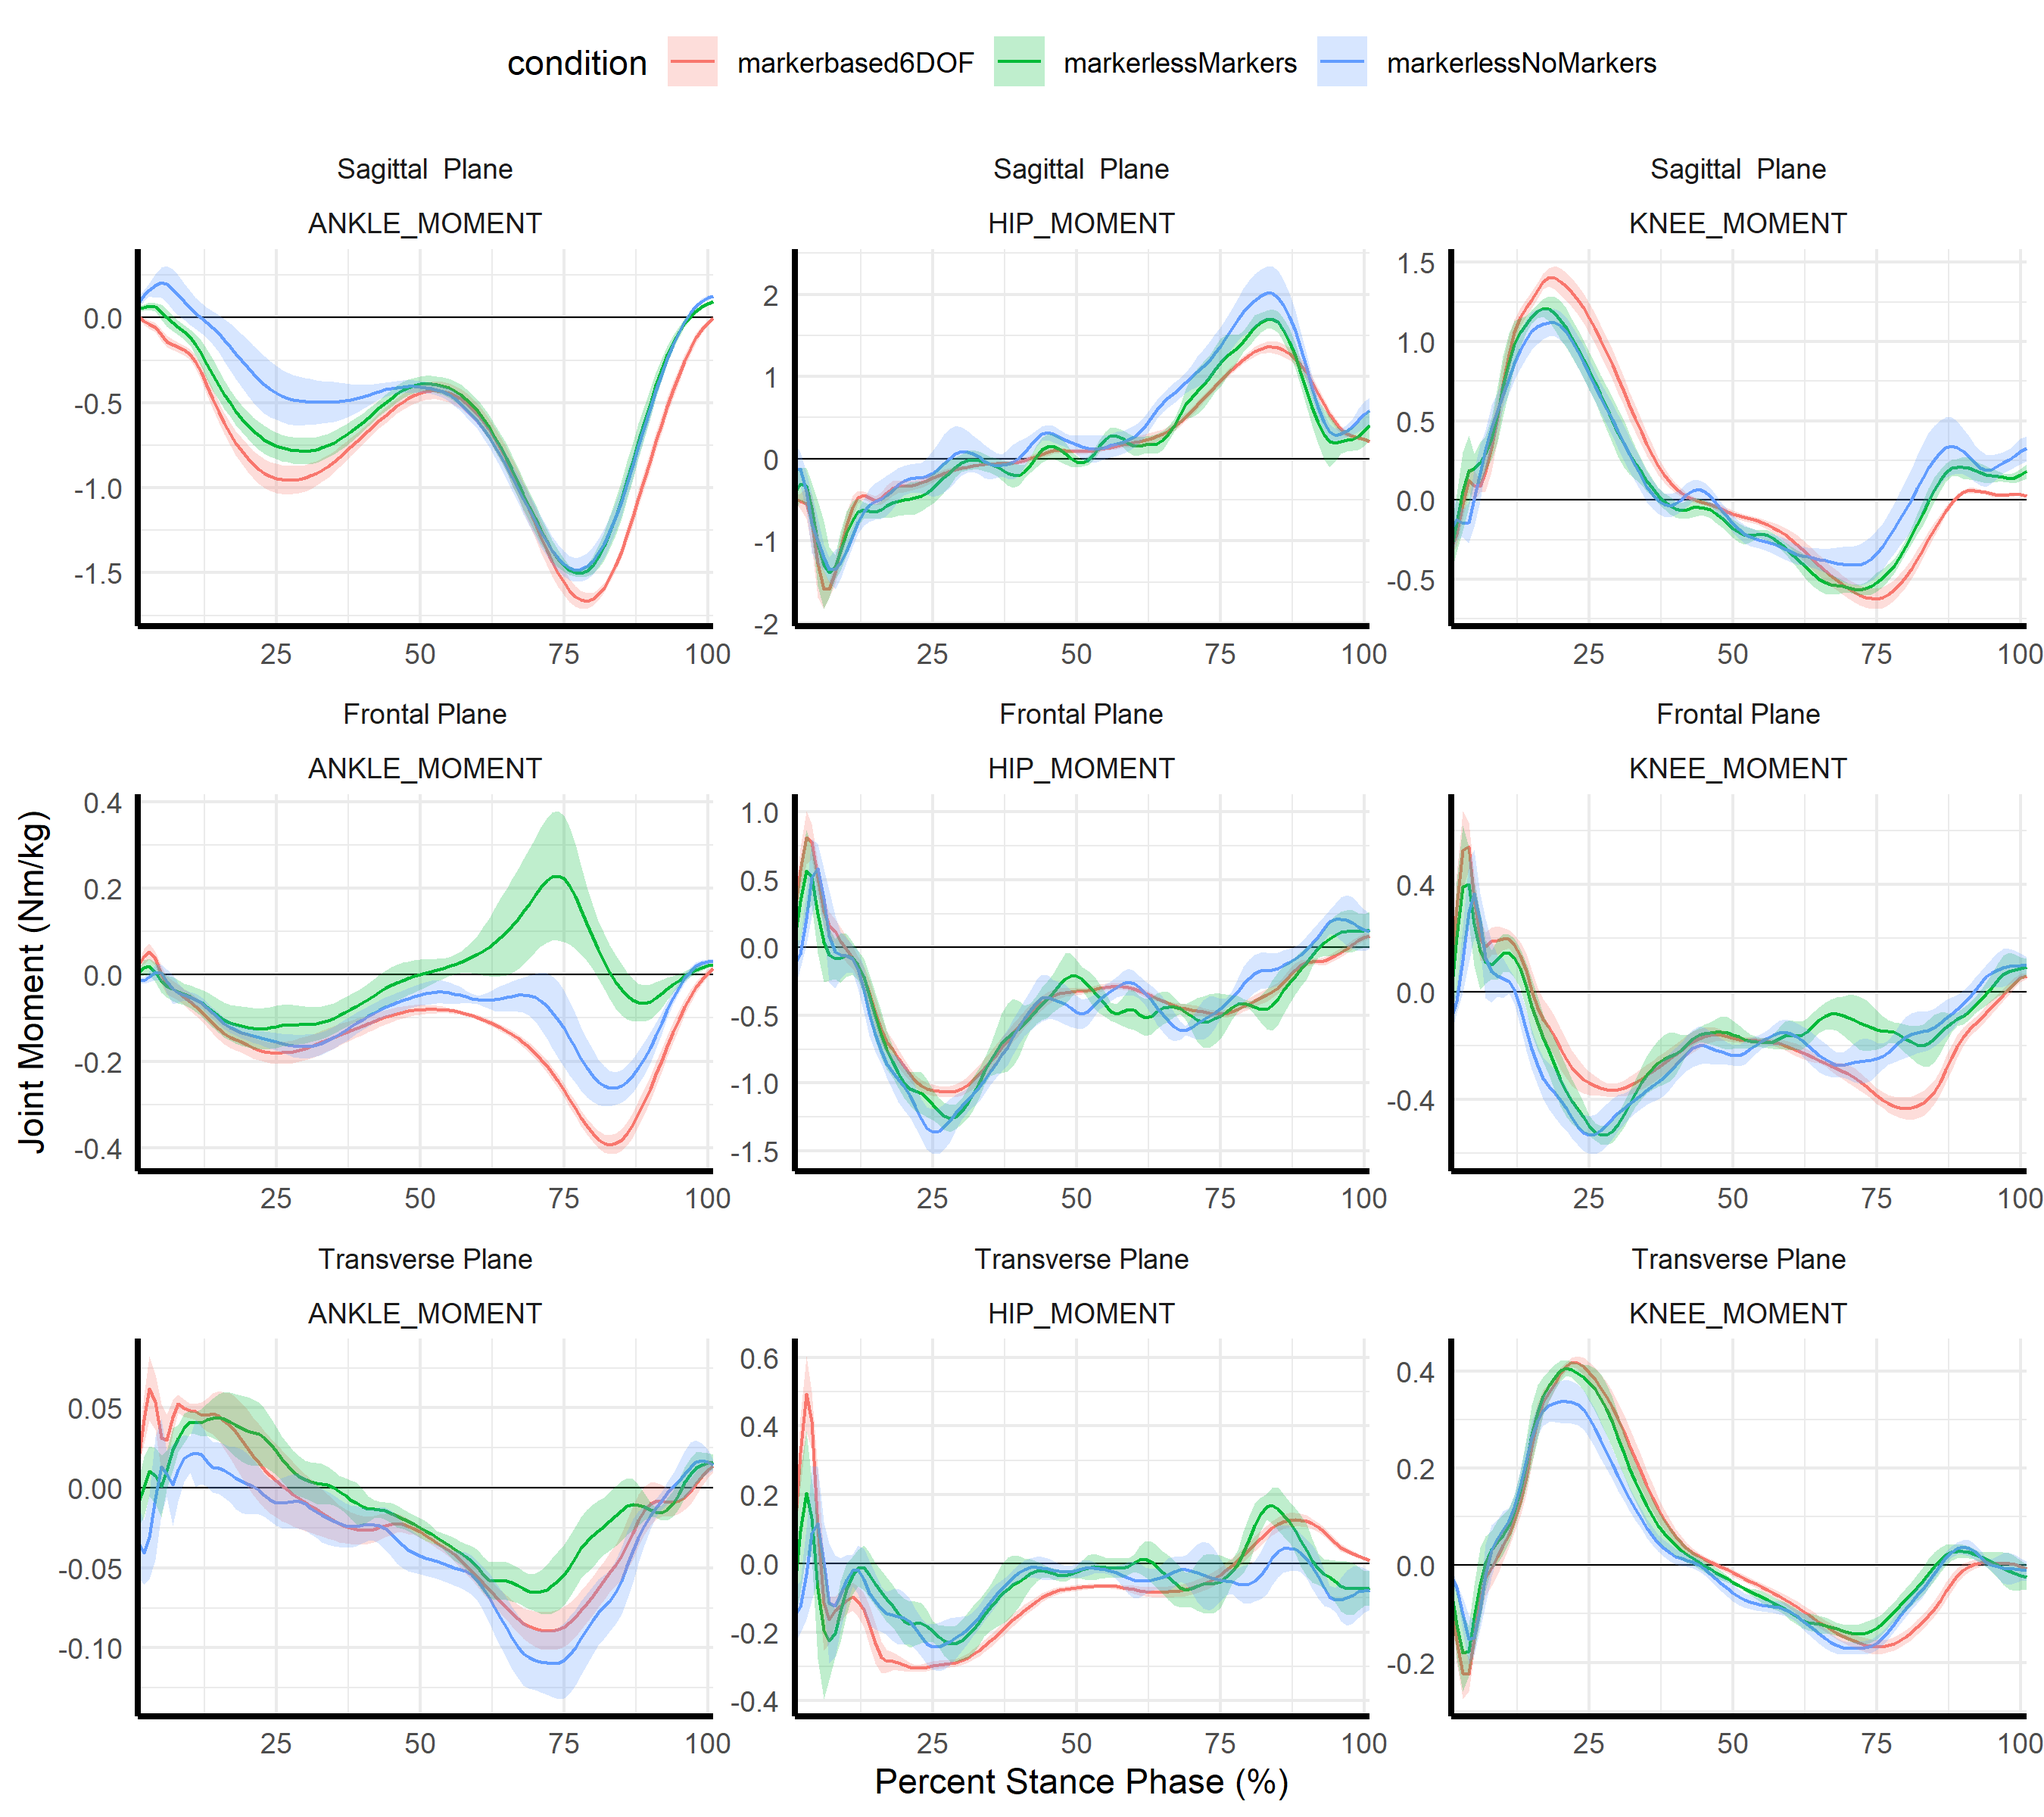
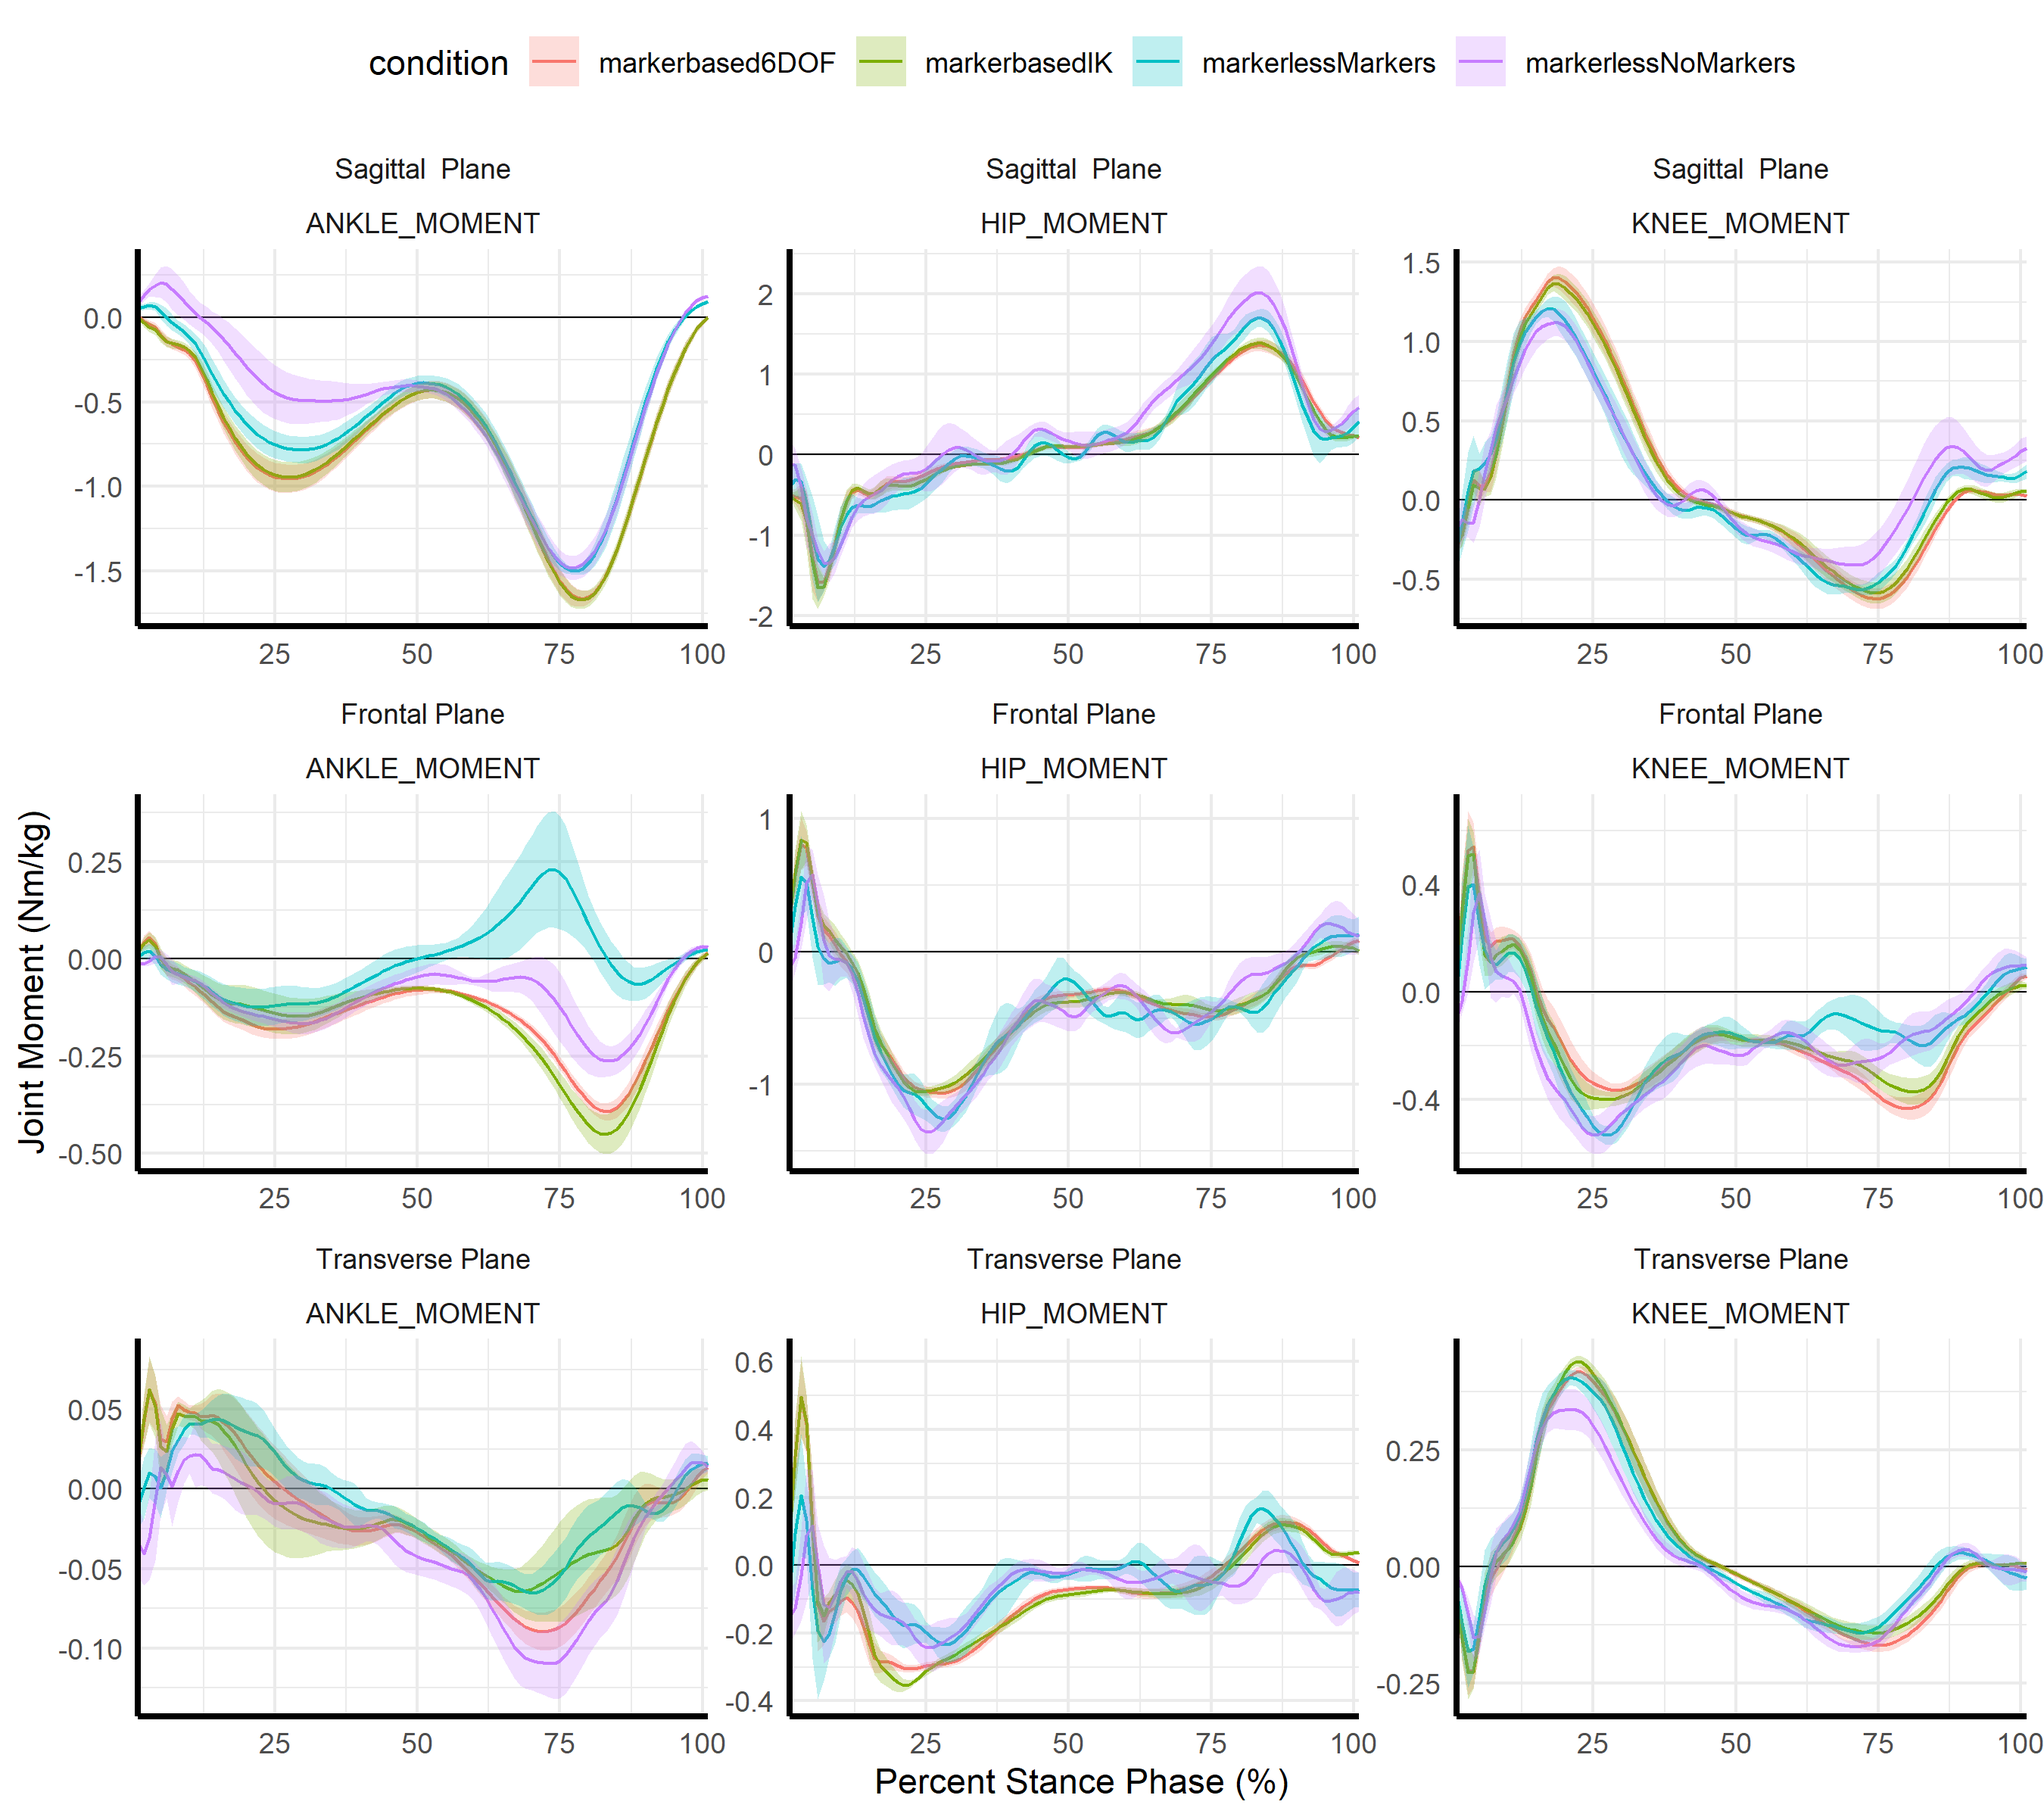
Added kinetics for IK

diff --git a/README.md b/README.md
@@ -54,6 +54,7 @@ library(devtools)
 library(v3dR)
 library(tidyverse)
 library(stringr)
+library(here)
 ```
 
 ### Build loopV3DR
@@ -84,7 +85,7 @@ loopV3DR <- function(full_filepath){
 
 ``` r
 # Define path to the subject folders
-resultsPath <- "C:\\Users\\Blast\\OneDrive - Queen's University\\MarkerlessCP\\subjects"
+resultsPath <- here('subjects')
 
 # Create list of subjects based on subject folders
 subList <- list.dirs(resultsPath, recursive=FALSE)
@@ -115,6 +116,29 @@ only include the **markerbased6DOF** and **markerlessMarkers** for the
 main plot comparisons since these data were collected concurrently.
 
 ### Right Side
+
+``` r
+df %>%
+  subset(select = -c(c3d_name, instance)) %>%
+  filter(!grepl("MOMENT", signal_names)) %>%
+  filter(side == 'right') %>%
+  filter(condition != 'markerlessAfo') %>%
+  filter(condition != 'markerbasedIK') %>%
+  filter(condition != 'markerlessNoMarkers')%>%
+  ggplot(aes(x = item, y = value, group = condition, color = condition)) +
+  geom_hline(yintercept = 0, color = "black", size = 0.25) +
+  stat_summary(fun = mean, geom = "line") +
+  stat_summary(fun.data = "mean_sdl", fun.args = list(mult = 1),
+               mapping = aes(color = condition, fill = condition),
+               geom = "ribbon", alpha = 0.25, colour = NA) +
+  facet_wrap(signal_components ~ signal_names, scales = "free",
+             labeller = labeller(signal_components = as_labeller(component_names))) +
+ theme_minimal() +
+ theme(axis.line = element_line(size = 1, colour = "black"), legend.position = "top") +
+ scale_x_continuous(expand = c(0, 0)) +
+  xlab('Percent Stance Phase (%)') +
+  ylab('Joint Angle (Degrees)')
+```
 
 <img src="README_files/figure-gfm/kinematics_right-1.png" style="display: block; margin: auto;" />
 
